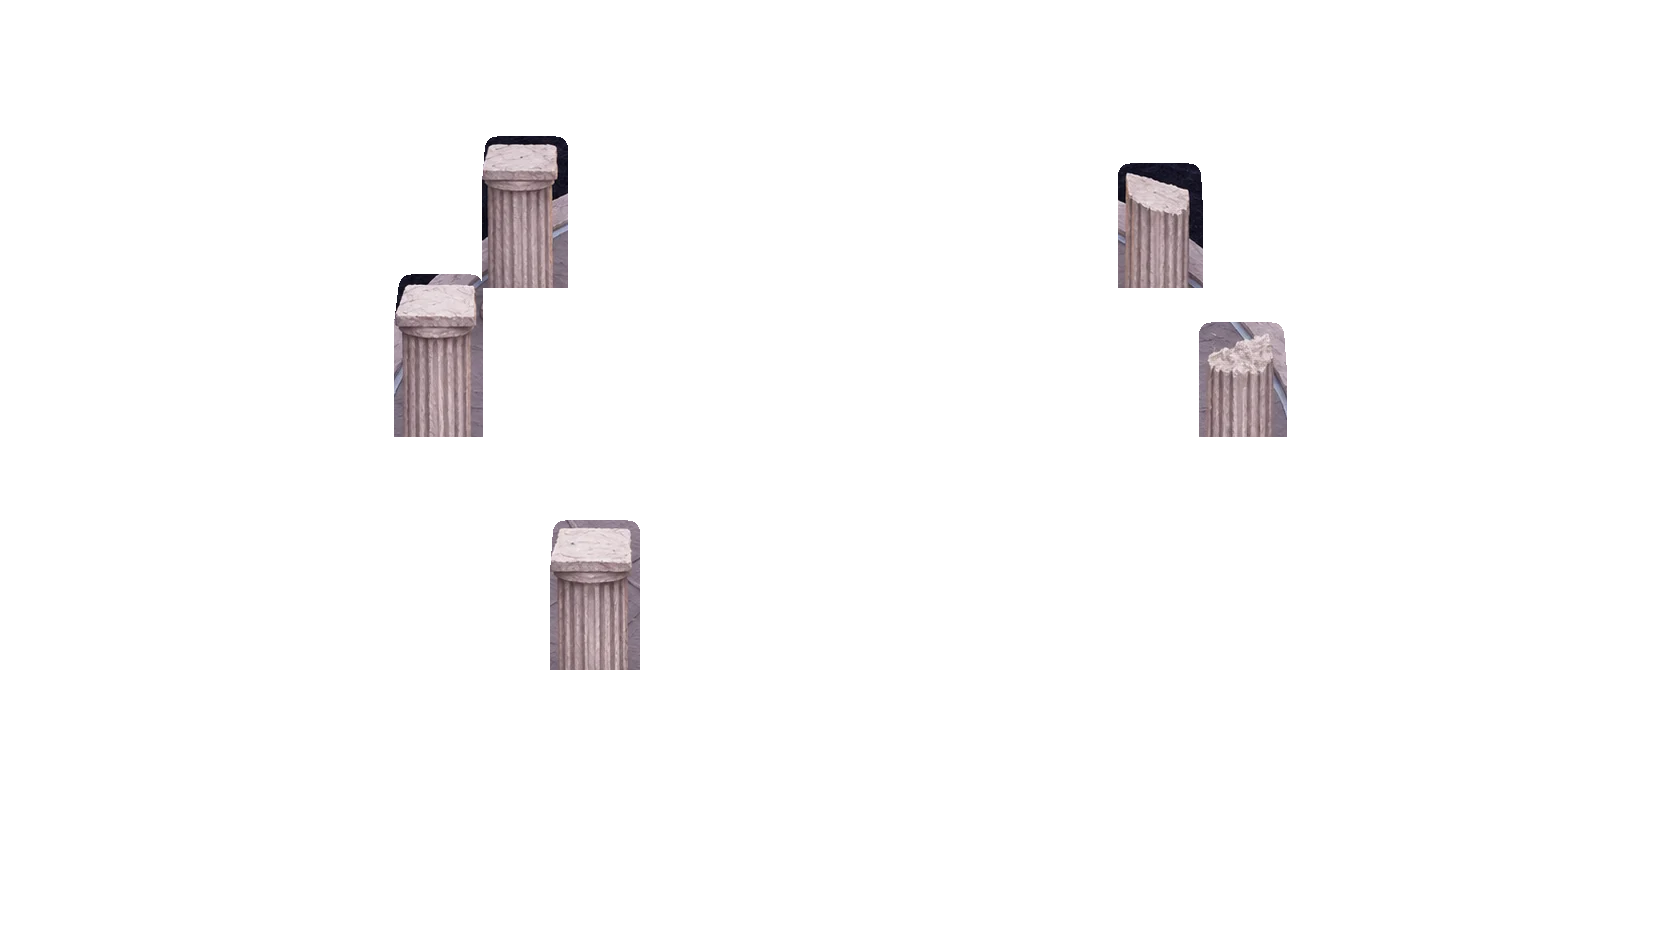
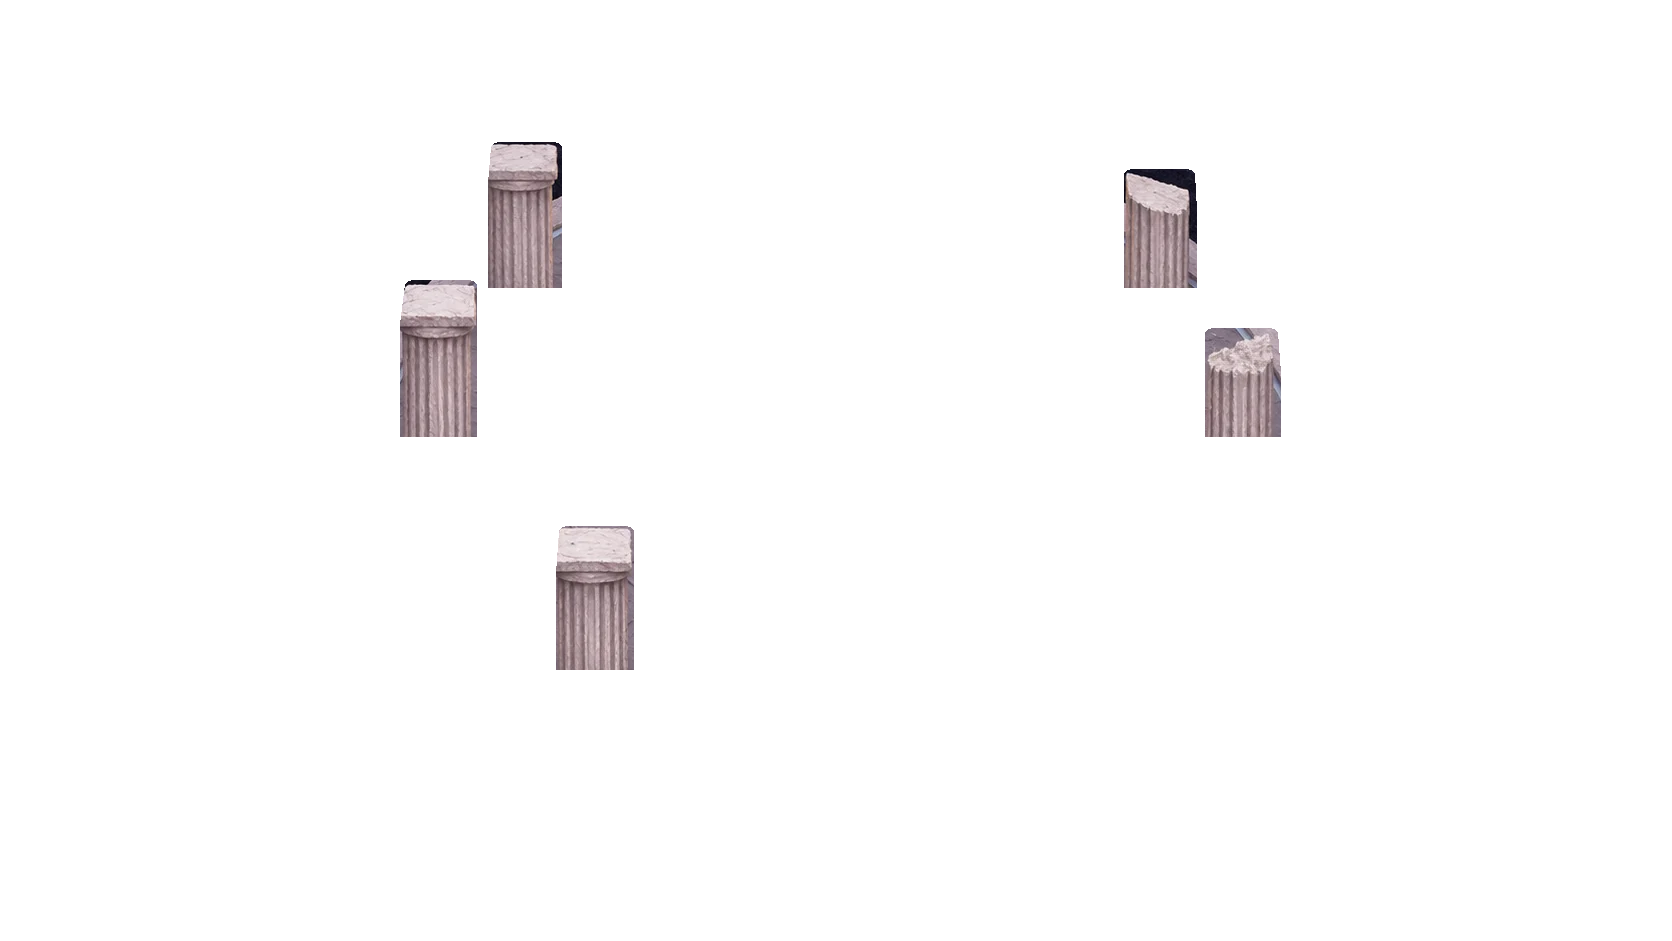
fix: 柱の台座まで歩行不可・前面の余白を絞る・暫定印と限界の具体化 (#286)

diff --git a/.claude/skills/sit-field-background/tools/sample_field_pillars.py b/.claude/skills/sit-field-background/tools/sample_field_pillars.py
@@ -7,8 +7,9 @@
 - 前面レイヤー（透過 WebP・背景と同寸。name-name の `前面=`、#866）: 主人公より手前に重ねる絵。柱ごとに
   『柱の箱のシルエット（左右・上へ余白 MARGIN px）のうち、足元の矩形の奥の辺（画像の y）より上』だけを採用背景から切り抜く。
   人物が柱の裏にいるとき（足元が奥の辺より上）は、体が柱に隠れて柱が手前に見える。足元の矩形は歩行不可なので、柱の足元は通れない。
-  限界: 前面レイヤーは1枚の静止画で、人物との前後を毎フレーム比べない。柱の手前（足元の矩形より下）に立つ人物の頭が
-  奥の辺より上へ出る分だけ、柱の上部に隠れる。光の柱は足場の奥の縁に立ち、その裏に歩ける床が無いので前面には出さない。
+  限界: 前面レイヤーは1枚の静止画で、人物との前後を毎フレーム比べない。足元の矩形の脇（柱の見た目の幅の内側）に立つ人物の頭が、
+  足元が奥の辺より下で約38px 以内のとき柱の上部に隠れる。光の柱は足場の奥の縁に立ち、その裏に歩ける床が無いので前面には出さない。
+  追従: name-name Issue #1190（前面をレイヤーごとの切れ目線で奥行きソートする）。
 
 使い方（リポのルートで。画像だけ書く。台帳の素材行の sha256 は build_ledger.py の検査が見る）:
   uv run --with numpy --with opencv-python-headless --with pillow python3 -I .claude/skills/sit-field-background/tools/sample_field_pillars.py build
@@ -31,7 +32,8 @@ BACKGROUND = os.path.join(REPO, "assets", "images", "fields", "reference", "samp
 MASK_OUT = os.path.join(REPO, "assets", "images", "fields", "masks", "SMP-01-mask.webp")
 FOREGROUND_OUT = os.path.join(REPO, "assets", "images", "fields", "foreground", "SMP-01-foreground.webp")
 PREVIEW_OUT = os.path.join(REPO, "docs", "production", "sample-field", "SMP-01-foreground-preview.png")
-MARGIN = 12  # 採用画像の柱は plan の箱より左右・上に最大約13px はみ出す。余白の背景は元と同じ画素なので見た目は変わらない
+MARGIN = 6  # 採用画像の柱の笠は plan の箱より左右・上に数px はみ出す。余白は必要最小限（広いと柱の脇の床・空まで前面に写り、脇に立つ人物の端をつぶす）
+FOOT_EXT = 12  # 柱の台座（円形の土台）は plan の足元の矩形の手前の辺より画像で約12px 下まである。その分まで足元の矩形を広げて、台座の手前縁に立てないようにする（柱のみ）
 
 
 def _fill(arr, pts, v):
@@ -40,7 +42,14 @@ def _fill(arr, pts, v):
 
 def foot_blocked(p):
     """柱（kind=column）と光の柱（kind=light）の足元の矩形（z=0 の画像上の四角形）。"""
-    return [(b, M.rect_poly(b["rect"])) for b in p["boxes"] if b.get("blocked") and b["kind"] in ("column", "light")]
+    out = []
+    for b in p["boxes"]:
+        if b.get("blocked") and b["kind"] in ("column", "light"):
+            poly = M.rect_poly(b["rect"])
+            if b["kind"] == "column":  # 手前の辺（頂点 2・3）を台座の下端まで下げる
+                poly = [poly[0], poly[1], (poly[2][0], poly[2][1] + FOOT_EXT), (poly[3][0], poly[3][1] + FOOT_EXT)]
+            out.append((b, poly))
+    return out
 
 
 def derive_mask(p):

diff --git a/tests/test_field_md.py b/tests/test_field_md.py
@@ -552,6 +552,8 @@ class SampleField(FieldMdCase):
         self.assertEqual(mask.getpixel((438, 458)), 0)  # 足元の矩形の中は不可
         self.assertGreater(mask.getpixel((438, 420)), 128)  # 柱の裏（奥の辺のすぐ上）は可
         self.assertGreater(mask.getpixel((438, 495)), 128)  # 柱の手前も可
+        self.assertEqual(mask.getpixel((438, 488)), 0)  # 柱の台座（円形の土台）の下端まで不可。台座の手前縁に立てない
+        self.assertGreater(mask.getpixel((438, 493)), 128)
         self.assertEqual(mask.getpixel((100, 400)), 0)  # 足場の外（虚空）は不可
         self.assertGreater(alpha.getpixel((438, 380)), 0)  # 柱の裏に立つ人物の体の位置は前面に覆われる
         self.assertEqual(alpha.getpixel((438, 458)), 0)  # 柱の足元より下は前面ではない（手前に立つ人物を隠さない）

diff --git a/docs/ledger/views/content.md b/docs/ledger/views/content.md
@@ -2136,9 +2136,9 @@ uv run python3 scripts/content_ledger_views.py build で更新する。
 | A-1360 | BG011 | battle-backgrounds | assets/images/battle-backgrounds/BG011.webp | 採用 | 2026-11-12 | 採用（kako-jun 目視承認 2026-11-12「よい」。逐語 https://github.com/kako-jun/sit-by-me/issues/191#issuecomment-6816061585）。sit-battle-background スキルの build→1回生成→check の手順で作った take11（拡大なし1.0倍、台帳『配置』の描画オフセット補正あり）。take10 は床板の幅が大きく巨大な1枚板に見えた（kako-jun「すこしフローリングの幅が大きすぎる」「巨大な板に見えてしまう」2026-11-12）ため、TRM-02 の板張りの実測（壇の板の間隔は壇の幅の約1.1%）に揃えて板を細く（中ほどで約16px）し、継ぎ目の隙間線・釘の頭・板ごとにずらした長さ方向の継ぎ目・細かい木目を指定して再生成した。check --zoomed で全枠（敵・味方4枠・窓3枠）の床画素99%以上・物画素0.5%以下（最大は味方1枠の0.04%）、床板の継ぎ目線は帯別に30本・32本（最小30。合格線29との余裕は1本。take10 は26本・23本で NG。判別力は弱く、目視が最終）。Issue #191、PR #274。 | 7ea0aa75a68408658064feb9a8174bc9d83fce3d43c4bf17fae4fc0f915e043e |  |
 | A-1361 | BG012 | battle-backgrounds | assets/images/battle-backgrounds/BG012.webp | 採用 | 2026-11-12 | 採用（kako-jun 目視承認 2026-11-12「これでいい」。逐語 https://github.com/kako-jun/sit-by-me/issues/191#issuecomment-6815782548）。sit-battle-background スキルで、台帳『配置』（BG011 継承・地面=thin-snow）から build して take5 を生成し、zoom-search（1.0〜1.5倍の範囲で総当たり）で、枠の上端帯に石・縁石・綿の塊が入らず（上端帯の路面の黒80%以上）、かつ余裕の大きい候補（味方1枠88%・敵の枠91%）を選んだ 1.15倍・crop 70,52,1454,818 で拡大。平らで水平な路面に、均一な薄い白い粉雪の層（黒い路面が透ける）。kako-jun「雪がつもりすぎ」「戦闘画面の道路の左端がなんか曲線状にゆがんでるし雪でなく道路がぐねぐね凹凸があるようにみえている」（2026-11-12）を受け、轍・足跡のくぼみを描かず、左端は直線的な遠近。消雪パイプの穴・金属蓋は描かない（「融雪装置が大きすぎる」「雪道でいいのでは」）。check --zoomed（再実測）で全枠（敵・味方4枠・窓3枠）の床画素99%以上・物画素0.5%以下（最大は味方1枠の0.03%）、路面の黒90.9%・白1.0%（合格線は黒45%以上・白35%以下。決定備考の『約7割』は TRM-08 の道路の実測（黒67〜82%）に基づく目安で、ここの90.9%は take5 の実測）、上端帯の路面の黒は味方1枠88.4%・敵の枠90.6%（合格線80%以上）、左端の路面の低周波のむらは3.5（合格線6.5以下。うねって見えた take4 は9.2）。上端に土塀・戸室石の基礎・縁石・路肩の綿の雪は見切れて残るが、枠には入らない（目視でも確認）。寺町の特徴だけを合わせた景色（どのマップとも一致しない）。BG012 は計5回生成（take1=BG011 のオフセット継承、take2=穴あり、take3=厚い雪、take4=薄雪でうねって見えた、take5=平らな薄い粉雪。指示の1回を超えた）。旧画像は差し替えた。Issue #191、PR #274。BG011 はこの承認の対象外で暫定のまま。 | 6c0f0576b0c1434f3dee03b28c5327fb30cdb731d27f2f293f7b9c1ea1f33e9f |  |
 | A-1362 | SMP-01 | 背景(基準) | assets/images/fields/reference/sample-field-smp01-adopted.webp | 採用 | 2026-11-14 | 採用（kako-jun 目視承認 2026-11-14「take2がいい」。逐語 https://github.com/kako-jun/sit-by-me/issues/281#issuecomment-6865495076。take1 は不採用）。sample_field_run.sh 2 の2テイク（docs/production/sample-field/e2/take1.png・take2.png。リポ内の docs/production/sample-field/e2/ にあり、git では無視されている）から、take2 を実寸 1672x941・generated_images との sha256 一致の確認だけで候補に選んだ（Claude は画像を見ていない）。take2.png の sha256 7996d823a10ffedb9e66ad37702bb1f0f10129415eed9a145e42ddafec141c85 を WebP 品質85（リサイズなし）にして正本パスへ保存。送信文は sample_field_build.py が plan と PR.sample.* から機械生成（独立レビュー2回、Issue #281）。決定 DEMO.sample-bg-last-place・DEMO.sample-bg-last-place-approved。 | 52fc7904948e7fc9b918434dca36b76a3cb9d8c5e982b93b80c7347bcececdcd |  |
-| A-1363 | SMP-01 | マスク | assets/images/fields/masks/SMP-01-mask.webp | 採用 | 2026-11-14 | 歩行マスク（白=歩ける・黒=不可。可逆 WebP 1672x941）。平面スペック docs/production/sample-field/SMP-01-plan.json から oblique_mock.py が決定論で作ったモックのマスク（足場の円盤の内側から柱5本・光の柱を除いた面）。sit-field-mask の『マスクの真実は画像の床の見え』に対し、生成画像との照合は測定のみ（Claude は画像を見ていない）なので、柱・足場の縁と画像の位置ずれは kako-jun が目視で確認した。採用（kako-jun 目視承認 2026-11-14「ほかの絵もよい」。逐語 https://github.com/kako-jun/sit-by-me/issues/281#issuecomment-6865517290）。 【2026-11-15 差し替え（Issue #286。kako-jun「時の最果ての柱の裏を歩けない」）】柱5本と光の柱の覆い（高さぶんの箱のシルエット）まで黒だった旧版（sha256 78abebf94d4a75680541bae2a2fc7f775a2d1ae917a09919ab92025fc0dbeb2c）を、『柱と光の柱の足元の矩形だけ黒・柱の裏は白』に作り直した。同じ plan から .claude/skills/sit-field-background/tools/sample_field_pillars.py build が決定論で作る（旧版は oblique_mock.py の出力と全画素一致を確認済み。差分は柱の覆いの部分だけ）。承認は旧版への目視承認で、この版は kako-jun の目視待ち。 | b5e5235604583adddef8fb39f170151b06933e31bcf042c71551ff7b9ddd1213 |  |
+| A-1363 | SMP-01 | マスク | assets/images/fields/masks/SMP-01-mask.webp | 採用 | 2026-11-14 | 【暫定・kako-jun の目視承認待ち（2026-11-15 差し替え版。決定 DEMO.sample-name-and-pillars、Issue #286。状態は採用のまま＝生成器 field_md.py は採用だけを拾う）】歩行マスク（白=歩ける・黒=不可。可逆 WebP 1672x941）。平面スペック docs/production/sample-field/SMP-01-plan.json から oblique_mock.py が決定論で作ったモックのマスク（足場の円盤の内側から柱5本・光の柱を除いた面）。sit-field-mask の『マスクの真実は画像の床の見え』に対し、生成画像との照合は測定のみ（Claude は画像を見ていない）なので、柱・足場の縁と画像の位置ずれは kako-jun が目視で確認した。採用（kako-jun 目視承認 2026-11-14「ほかの絵もよい」。逐語 https://github.com/kako-jun/sit-by-me/issues/281#issuecomment-6865517290）。 【2026-11-15 差し替え（Issue #286。kako-jun「時の最果ての柱の裏を歩けない」）】柱5本と光の柱の覆い（高さぶんの箱のシルエット）まで黒だった旧版（sha256 78abebf94d4a75680541bae2a2fc7f775a2d1ae917a09919ab92025fc0dbeb2c）を、『柱と光の柱の足元の矩形だけ黒・柱の裏は白』に作り直した。同じ plan から .claude/skills/sit-field-background/tools/sample_field_pillars.py build が決定論で作る（旧版は oblique_mock.py の出力と全画素一致を確認済み。差分は柱の覆いの部分だけ）。承認は旧版への目視承認で、この版は kako-jun の目視待ち。柱の足元の矩形は台座（円形の土台）の下端まで画像で12px 手前へ広げた（台座の手前縁に立てないように。レビュー指摘）。 | 1a537446f787d20ffaaa2ef6588daf0295e1cddd02258102002f4974e44310be |  |
 | A-1364 | BG013 | battle-backgrounds | assets/images/battle-backgrounds/BG013.webp | 採用 | 2026-11-14 | 採用（kako-jun 目視承認 2026-11-14「ほかの絵もよい」。逐語 https://github.com/kako-jun/sit-by-me/issues/281#issuecomment-6865517290。Claude は画像を見ていない）。sit-battle-background スキルで、build（割付図・送信文。参照見本は SMP-01 の採用済み背景 A-1362 の切り出し）→送信文の独立レビュー（blocker2・major5 を全件修正）→ codex exec を1回だけ。生成 PNG（リポ外・git 無視、sha256 f02a5f007880719ba7f3e4f0a5f491580090be69d1b6ab5f0d325fa97015306e、1672x941、generated_images と sha256 一致）を WebP 品質85（リサイズなし）にして保存。check --zoomed の測定は枠の床画素100%・物0%（拡大なし1.0倍）だが、測定は不具合検出用で見た目の合否ではない。決定 DEMO.sample-bg-last-place-approved、Issue #281。 | e96d0b432eb692dd6c1e4d1fe1ef51021b424d648b68beec64b91d570b3db18a |  |
-| A-1365 | SMP-01 | 前面 | assets/images/fields/foreground/SMP-01-foreground.webp | 採用 | 2026-11-15 | 前面レイヤー（name-name の `前面=`、#866。主人公より手前に重ねる透過 WebP・可逆・RGBA 1672x941。Issue #286）。画像生成 AI は使わず、採用背景 A-1362（sha256 52fc7904948e7fc9b918434dca36b76a3cb9d8c5e982b93b80c7347bcececdcd）から、plan docs/production/sample-field/SMP-01-plan.json の柱5本（c1〜c5）の箱のシルエット（左右・上へ余白12px）のうち、各柱の足元の矩形の奥の辺（画像 y: c1・c2=288、c3・c4=437、c5=670）より上の部分だけを切り抜いた（残りは透明）。.claude/skills/sit-field-background/tools/sample_field_pillars.py build が決定論で作る（歩行マスク A-1363 と同じ実行）。切り抜きの範囲の目視用の重ね画像は docs/production/sample-field/SMP-01-foreground-preview.png（背景を暗くし、切り抜きを明るく、歩けない足元の矩形を赤にした派生物）。Claude は切り抜きの画像を重ね画像で見た（位置は柱に合っている）が、見た目の承認は kako-jun の目視待ち。決定 DEMO.sample-bg-last-place。 | fd2e59b857e47c0c7c076ff9f21d301d97a1b90fadffc1d61850ff1667c1a01d | 画素は A-1362 の複写（柱の裏に人物が入ったとき柱が手前に見える部分だけ不透明。不透明 60982 画素）。限界: 前面は1枚の静止画で人物との前後を毎フレーム比べないので、柱の手前（足元の矩形より下）に立つ人物の頭が奥の辺より上へ出る分だけ柱の上部に隠れる。 |
+| A-1365 | SMP-01 | 前面 | assets/images/fields/foreground/SMP-01-foreground.webp | 採用 | 2026-11-15 | 【暫定・kako-jun の目視承認待ち（状態は採用のまま＝生成器 field_md.py は採用だけを拾う）】前面レイヤー（name-name の `前面=`、#866。主人公より手前に重ねる透過 WebP・可逆・RGBA 1672x941。Issue #286）。画像生成 AI は使わず、採用背景 A-1362（sha256 52fc7904948e7fc9b918434dca36b76a3cb9d8c5e982b93b80c7347bcececdcd）から、plan docs/production/sample-field/SMP-01-plan.json の柱5本（c1〜c5）の箱のシルエット（左右・上へ余白6px。柱の笠のはみ出し分だけ）のうち、各柱の足元の矩形の奥の辺（画像 y: c1・c2=288、c3・c4=437、c5=670）より上の部分だけを切り抜いた（残りは透明）。.claude/skills/sit-field-background/tools/sample_field_pillars.py build が決定論で作る（歩行マスク A-1363 と同じ実行）。切り抜きの範囲の目視用の重ね画像は docs/production/sample-field/SMP-01-foreground-preview.png（背景を暗くし、切り抜きを明るく、歩けない足元の矩形を赤にした派生物）。Claude は切り抜きの画像を重ね画像で見た（位置は柱に合っている）が、見た目の承認は kako-jun の目視待ち。決定 DEMO.sample-name-and-pillars。 | 076e1bea4bab3952679c29657e1a2287ec4835cbeb3cc423f9a0c5a06bf7c0ec | 画素は A-1362 の複写（柱の裏に人物が入ったとき柱が手前に見える部分だけ不透明。不透明 50589 画素）。限界: 前面は1枚の静止画で人物との前後を毎フレーム比べないので、足元の矩形の脇（柱の見た目の幅の内側）に立つ人物の頭（上の1/3〜1/2）が、足元が奥の辺より下で約38px 以内（c1・c2=y288〜326、c3・c4=437〜475、c5=670〜708）のとき柱の上部に隠れる。追従: name-name Issue #1190（レイヤーごとの切れ目線で奥行きソート）。 |
 
 ### 素材移行 (712件)
 
